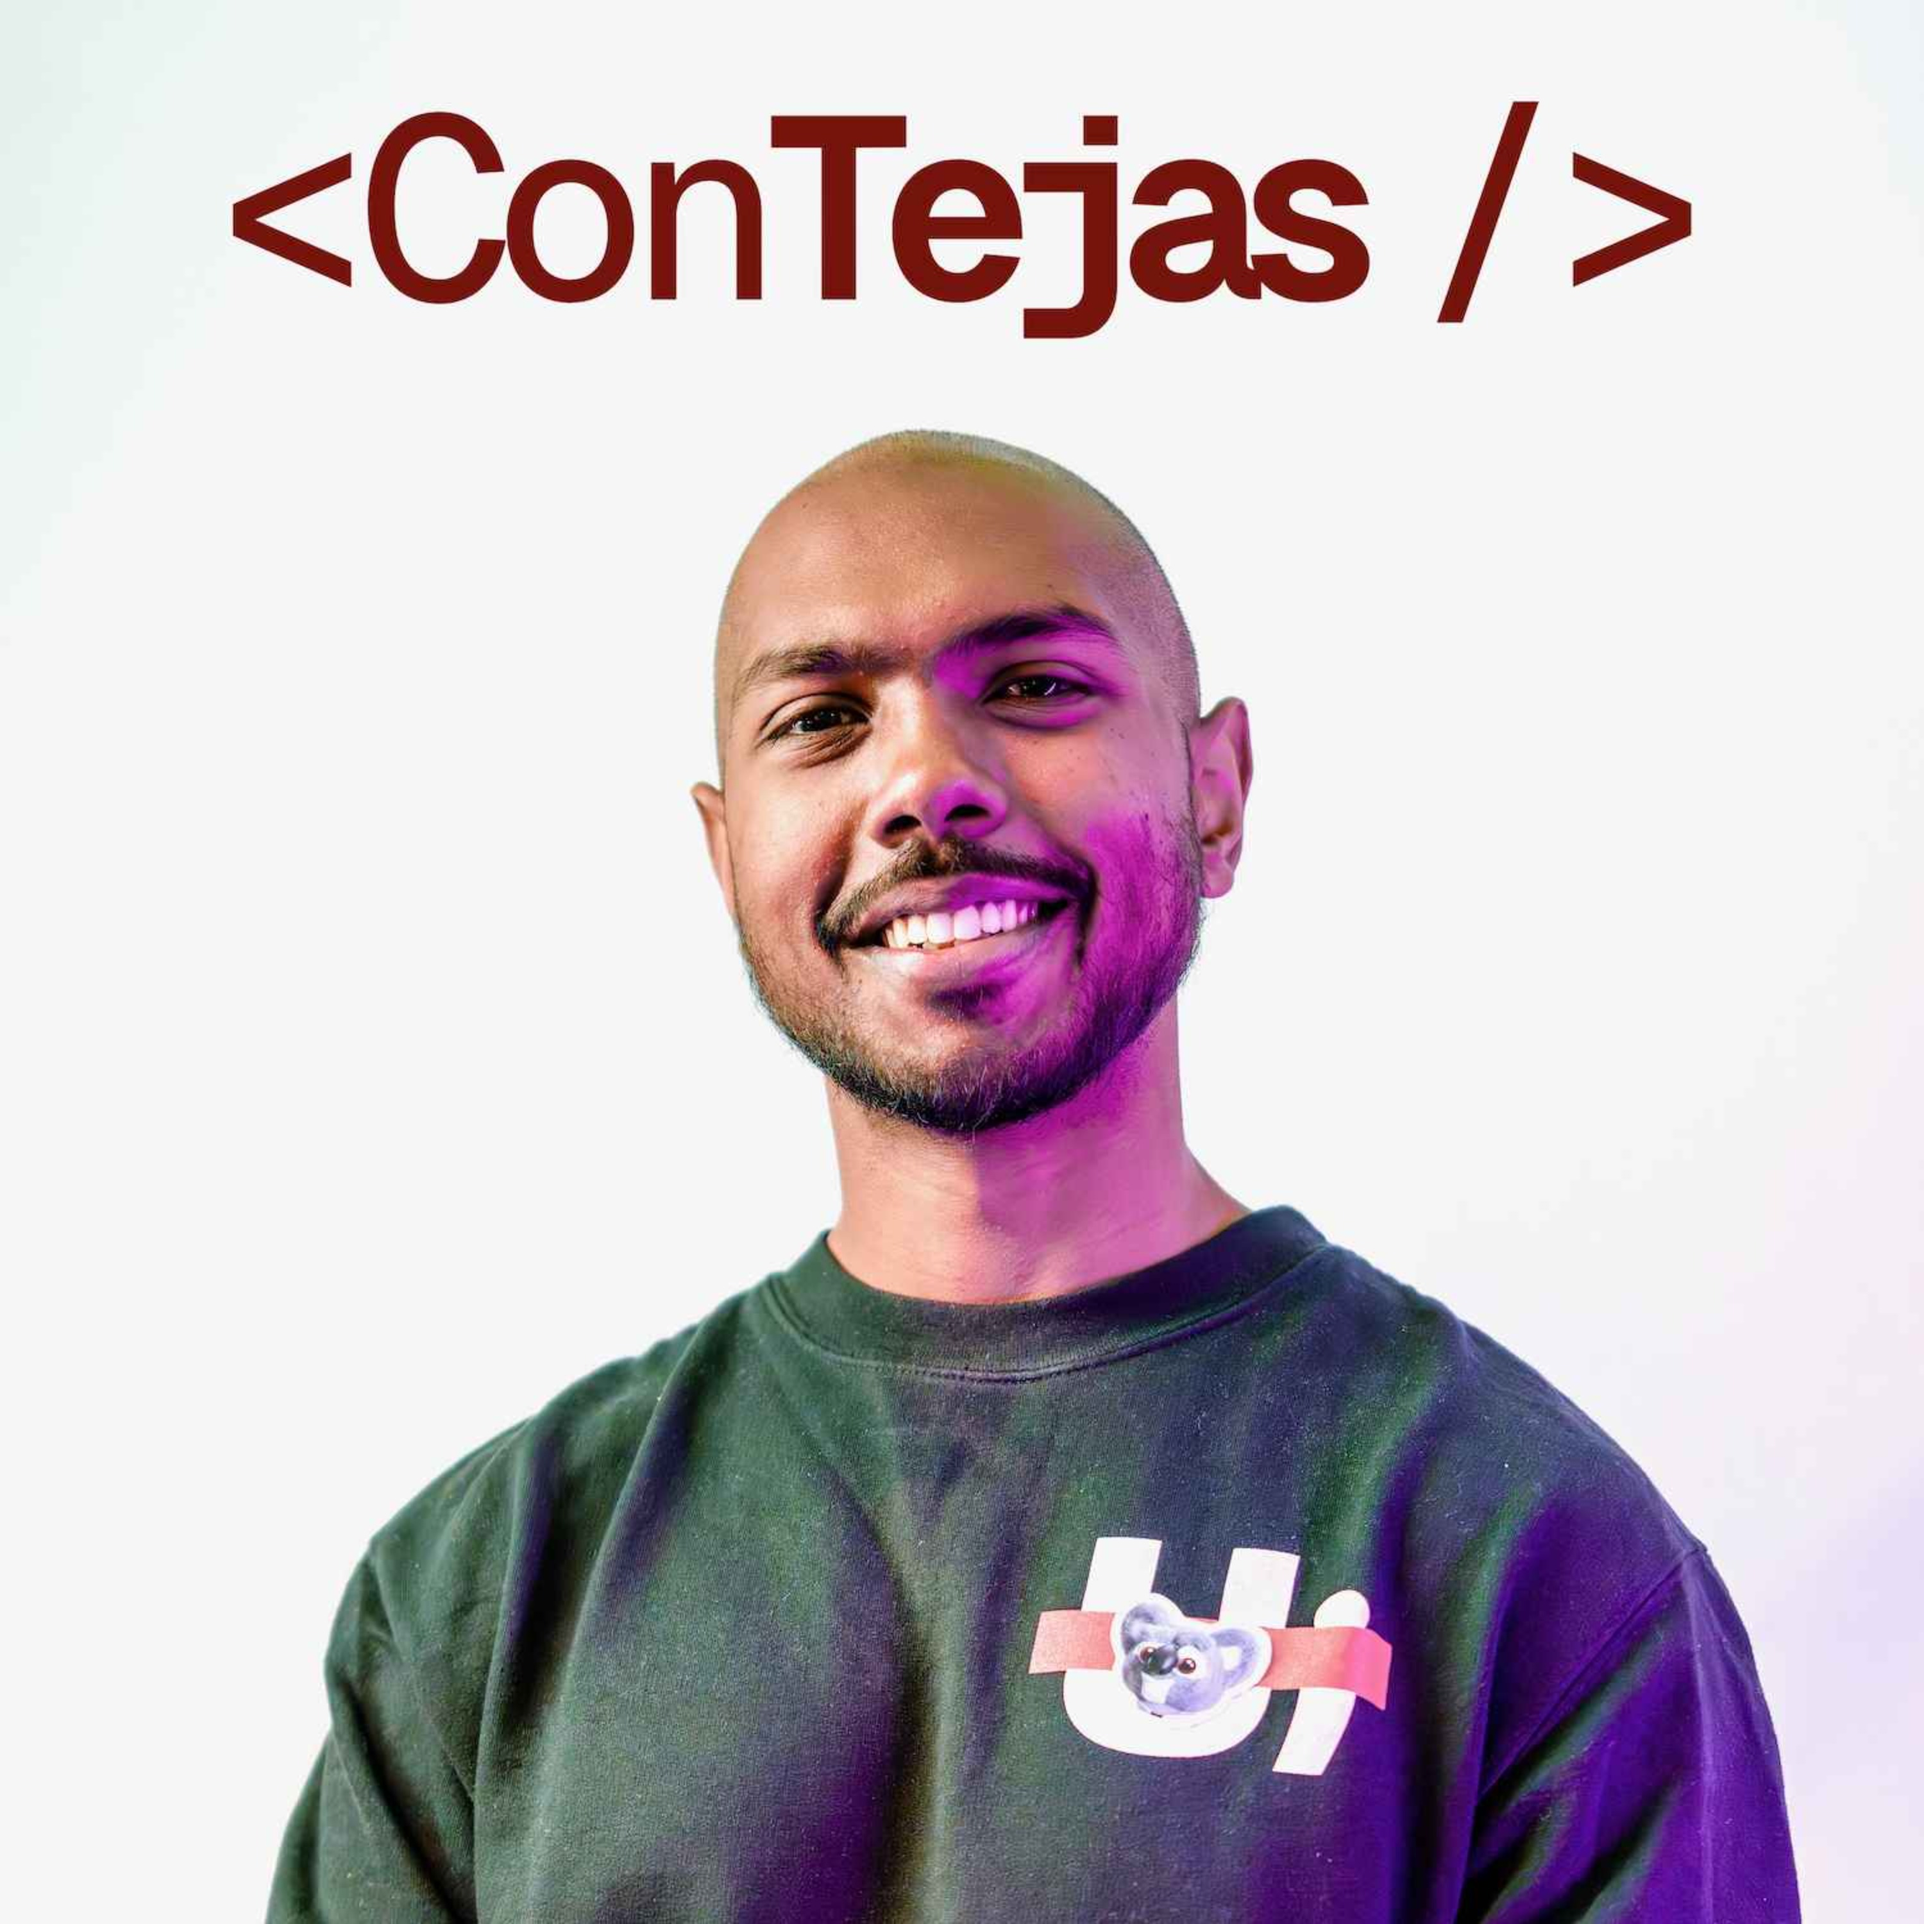
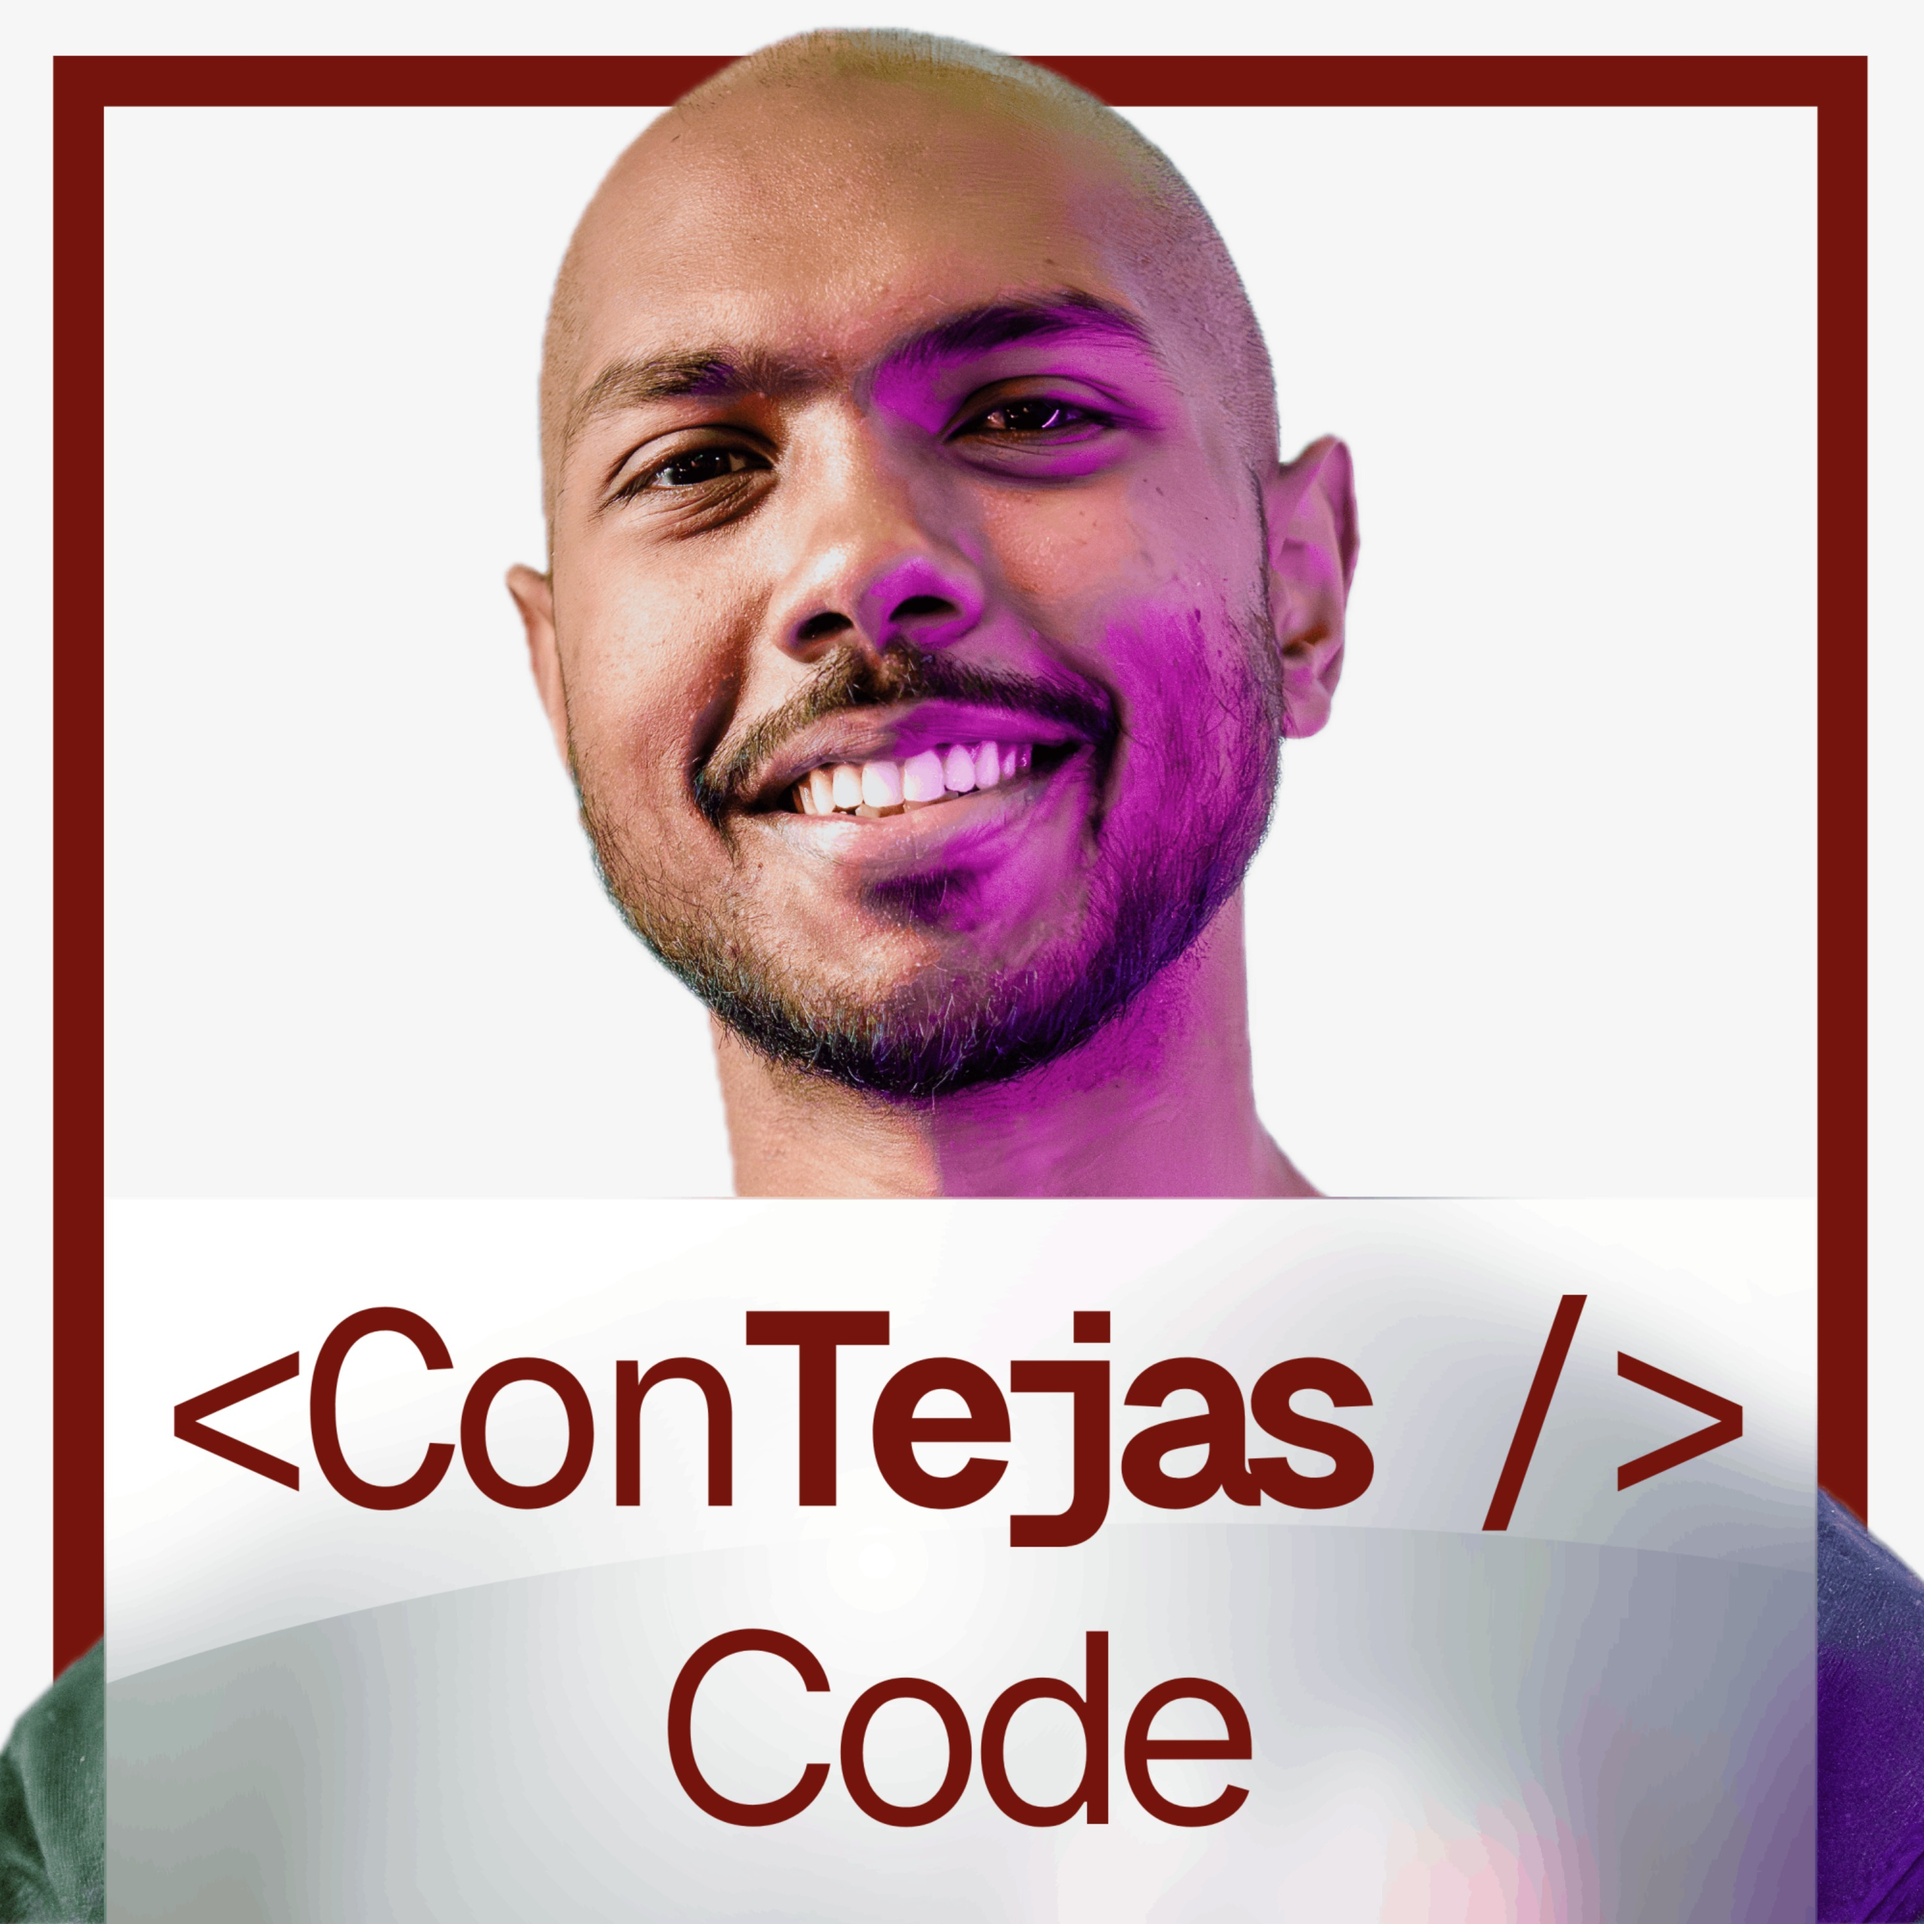
Gnerate podcast data

diff --git a/content/podcasts/compressedfm.md b/content/podcasts/compressedfm.md
@@ -2,11 +2,11 @@
 slug: compressedfm
 name: COMPRESSEDfm
 description: |
-  A weekly podcast about web design and development with a little zest from James Q Quick, Amy Dutton, Brad Garropy, and Bekah HW.
+  A weekly podcast about web design and development with a little zest from Amy Dutton and Brad Garropy
 feedUrl: https://feeds.simplecast.com/hq7M2S7s
 websiteUrl: http://compressed.fm
-author: James Q. Quick, Amy Dutton, Brad Garropy, Bekah HW
-episodeCount: 183
+author: Amy Dutton, Brad Garropy
+episodeCount: 205
 categories: {'102': 'Technology', '1': 'Arts', '3': 'Design', '9': 'Business', '14': 'Marketing'}
 tags: ['JavaScript', 'Web Development', 'Web Design']
 image: ./compressedfm.jpg
@@ -14,4 +14,4 @@ podcastIndexId: 3240656
 ---
 # COMPRESSEDfm
 
-A weekly podcast about web design and development with a little zest from James Q Quick, Amy Dutton, Brad Garropy, and Bekah HW.
+A weekly podcast about web design and development with a little zest from Amy Dutton and Brad Garropy

diff --git a/content/podcasts/talk-python-to-me.md b/content/podcasts/talk-python-to-me.md
@@ -5,11 +5,11 @@ description: |
   Talk Python to Me is a weekly podcast hosted by developer and entrepreneur Michael Kennedy. We dive deep into the popular packages and software developers, data scientists, and incredible hobbyists doing amazing things with Python. If you're new to Python, you'll quickly learn the ins and outs of the community by hearing from the leaders. And if you've been Pythoning for years, you'll learn about your favorite packages and the hot new ones coming out of open source.
 feedUrl: https://talkpython.fm/episodes/rss
 websiteUrl: https://talkpython.fm/
-author: Michael Kennedy (@mkennedy)
-episodeCount: 472
+author: Michael Kennedy
+episodeCount: 504
 categories: {'102': 'Technology'}
 tags: ['python\r', 'programming']
-image: ./talk-python-to-me.png
+image: ./talk-python-to-me.jpg
 podcastIndexId: 742305
 ---
 # Talk Python To Me

diff --git a/content/podcasts/syntax-tasty-web-development-treats.md b/content/podcasts/syntax-tasty-web-development-treats.md
@@ -6,7 +6,7 @@ description: |
 feedUrl: https://feed.syntax.fm/rss
 websiteUrl: https://syntax.fm
 author: Wes Bos & Scott Tolinski - Full Stack JavaScript Web Developers
-episodeCount: 811
+episodeCount: 902
 categories: {'102': 'Technology', '55': 'News'}
 tags: ['Web Development', 'JavaScript', 'Full-Stack']
 image: ./syntax-tasty-web-development-treats.png

diff --git a/content/podcasts/contejas-code.md b/content/podcasts/contejas-code.md
@@ -6,7 +6,7 @@ description: |
 feedUrl: https://feeds.acast.com/public/shows/655148df2861630012a1d01b
 websiteUrl: https://shows.acast.com/contejas-code
 author: Tejas Kumar
-episodeCount: 39
+episodeCount: 88
 categories: {'102': 'Technology'}
 tags: ['Open Source', 'Web Development', 'JavaScript']
 image: ./contejas-code.jpeg
